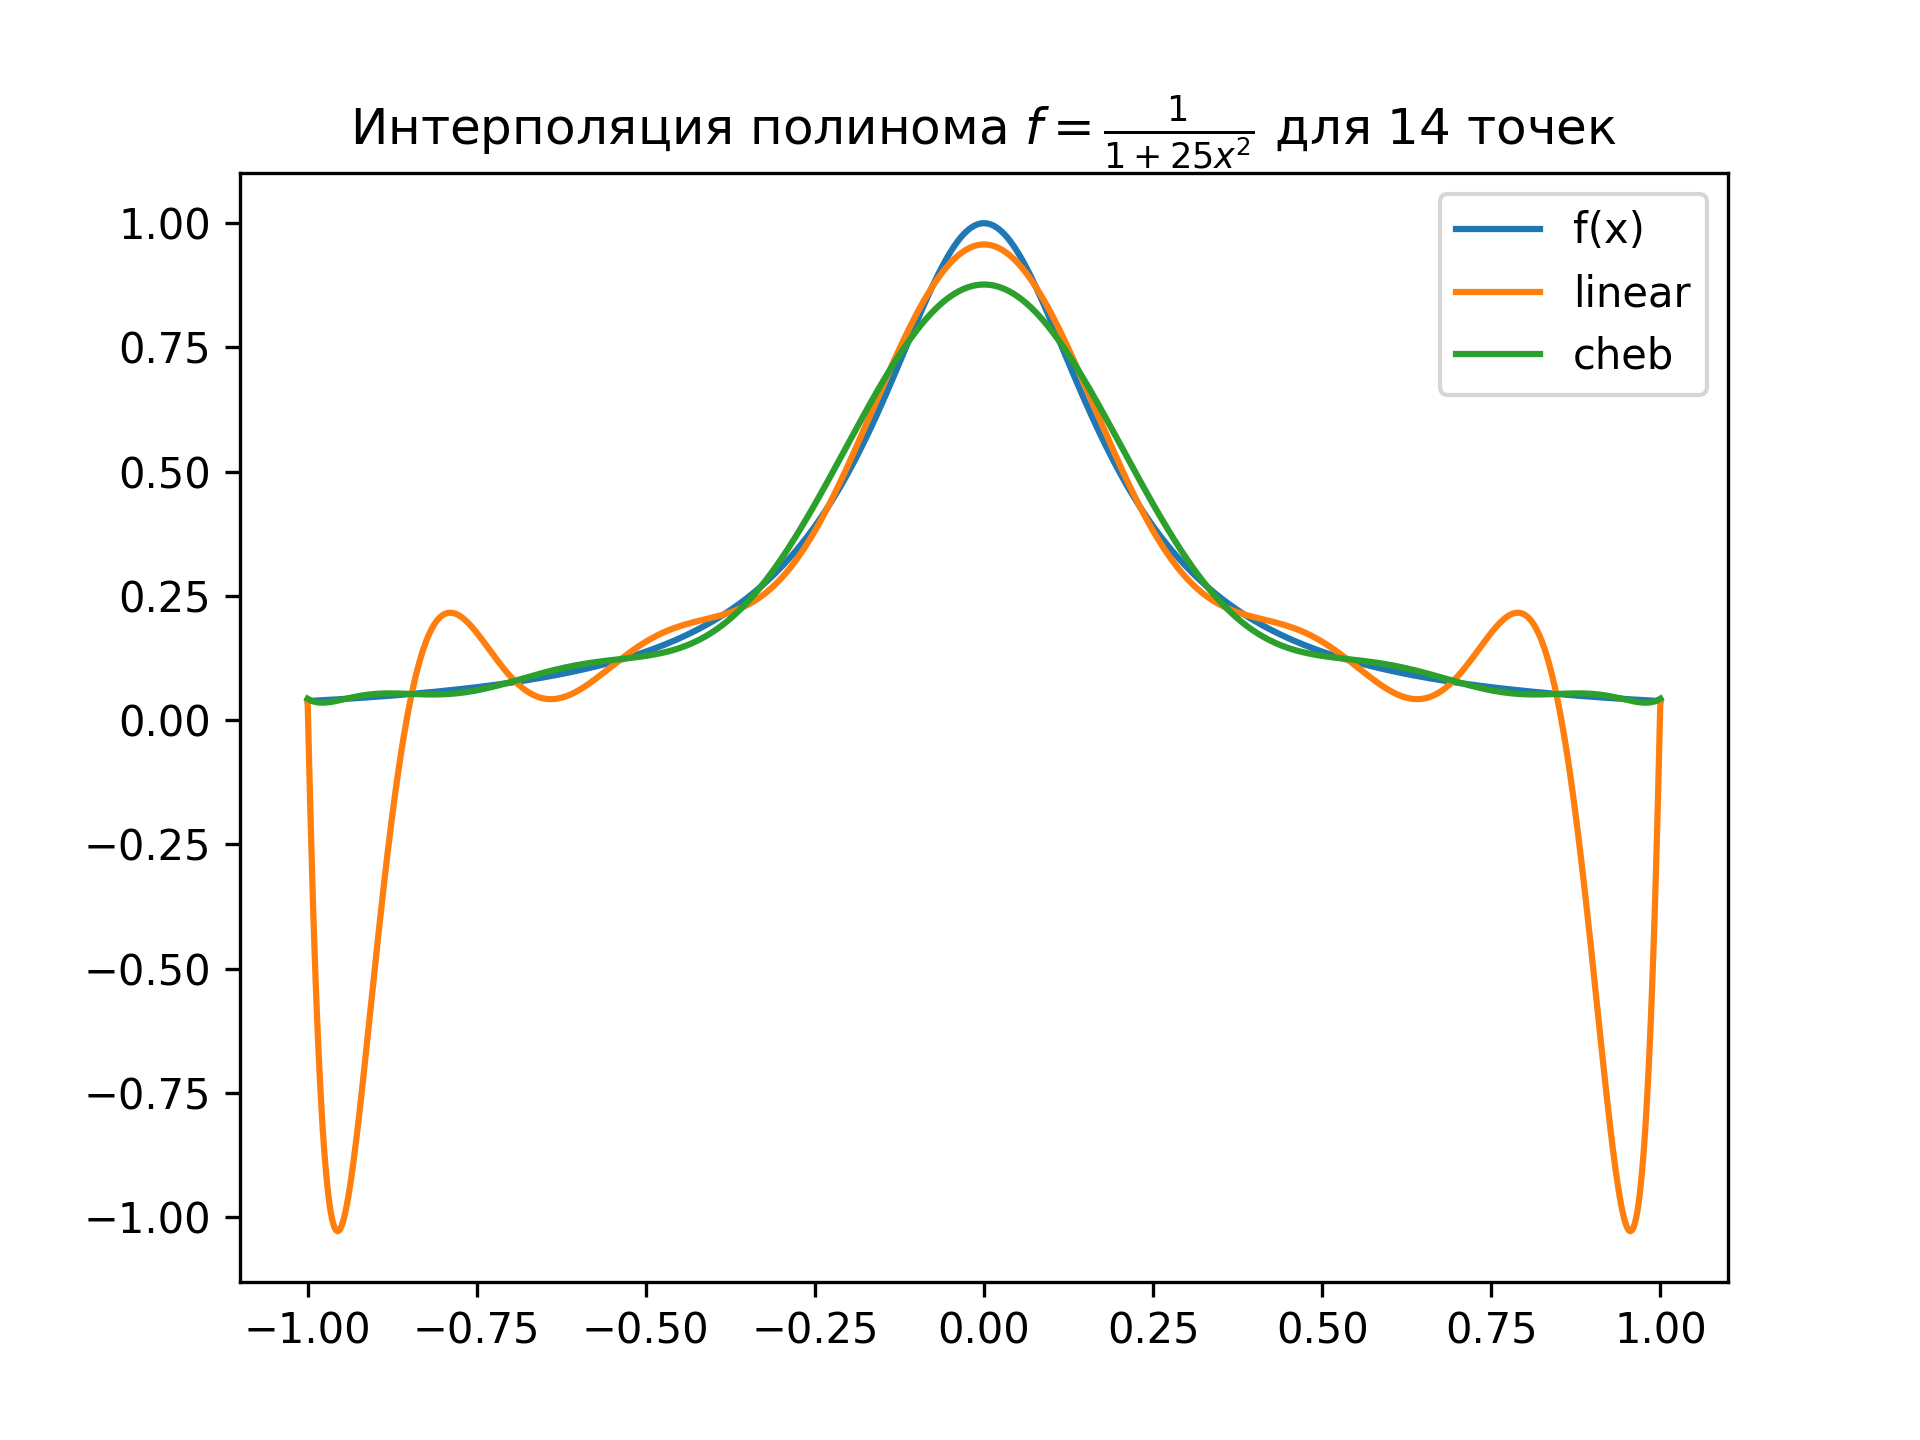
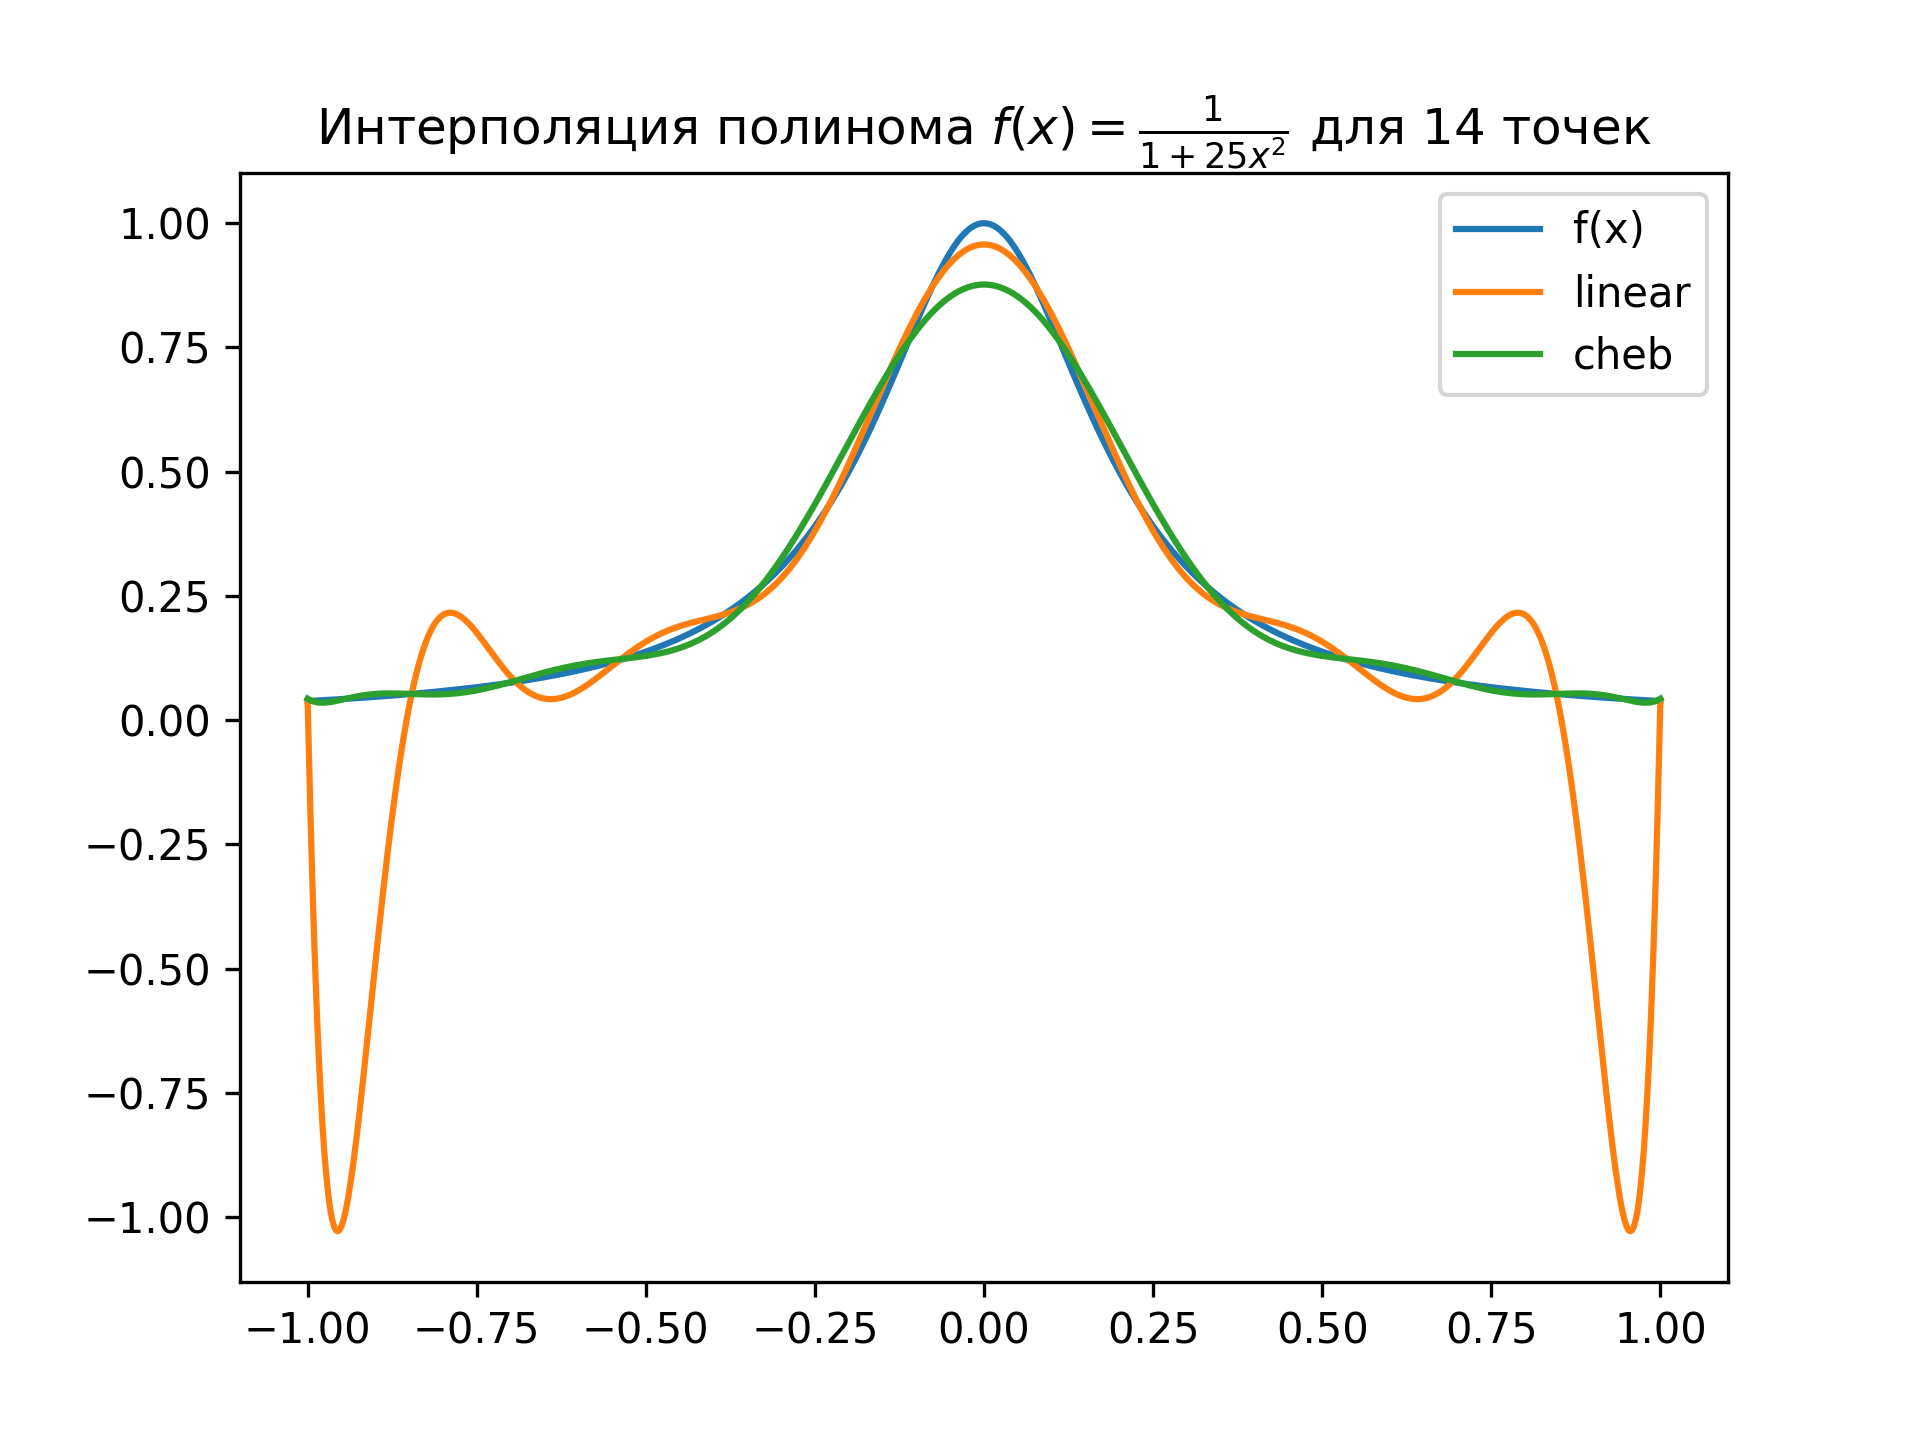
#00000016

Changed region(s): [[0.1562, 0.0625, 0.5938, 0.125], [0.5938, 0.0625, 0.8438, 0.125]]

diff --git a/seminar2/2026_09_19-3_sinx.py b/seminar2/2026_09_19-3_sinx.py
@@ -3,26 +3,31 @@ import numpy as np
 from numpy import polyval, polyfit
 from scipy.special import roots_chebyt
 import matplotlib.pyplot as plt
-N = 14
+N = 5
 def f(x):
-    return 1 / (1 + 25 * x ** 2)
-bins = np.linspace(-1, 1, 1000)
-
-x_linear = np.linspace(-1, 1, N)
-x_cheb, _ = roots_chebyt(N)
-
-coef_linear = polyfit(x_linear, f(x_linear), N - 1)
-coef_cheb = polyfit(x_cheb, f(x_cheb), N - 1)
-
-y_linear = polyval(coef_linear, bins)
-y_cheb = polyval(coef_cheb, bins)
-
-plt.plot(bins, f(bins), label="f(x)")
-plt.plot(bins, y_linear, label="linear")
-plt.plot(bins, y_cheb, label="cheb")
+    return np.sin(x)
+bins = np.linspace(0, np.pi, 1000)
 
 
-plt.title(r'Интерполяция полинома $f=\frac{1}{1+25x^2}$ для 14 точек')
+x_half_pi = (roots_chebyt(N)[0] + 1) * np.pi / 4
+x_pi = (roots_chebyt(N)[0] + 1) * np.pi / 2
+
+coef_half_pi = polyfit(x_half_pi, f(x_half_pi), N - 1)
+coef_pi = polyfit(x_pi, f(x_pi), N - 1)
+
+y_half_pi = polyval(coef_half_pi, bins)
+y_pi = polyval(coef_pi, bins)
+
+plt.plot(x_half_pi, f(x_half_pi), 'o', label="half pi points")
+plt.plot(x_pi, f(x_pi), 'o', label="pi points")
+
+
+plt.plot(bins, y_pi, label="pi")
+plt.plot(bins, y_half_pi, label="half_pi")
+plt.plot(bins, f(bins), '--', color='black', label="f(x)")
+
+
+plt.title(r'Интерполяция полинома $f(x)=sin(x)$ для 5 точек')
 plt.legend()
-plt.savefig('2_interpolation.png', dpi=300)
+plt.savefig('3_interpolation.png', dpi=300)
 plt.show()

diff --git a/seminar2/2026_09_19-2.py b/seminar2/2026_09_19-2.py
@@ -22,7 +22,7 @@ plt.plot(bins, y_linear, label="linear")
 plt.plot(bins, y_cheb, label="cheb")
 
 
-plt.title(r'Интерполяция полинома $f=\frac{1}{1+25x^2}$ для 14 точек')
+plt.title(r'Интерполяция полинома $f(x)=\frac{1}{1+25x^2}$ для 14 точек')
 plt.legend()
 plt.savefig('2_interpolation.png', dpi=300)
 plt.show()
